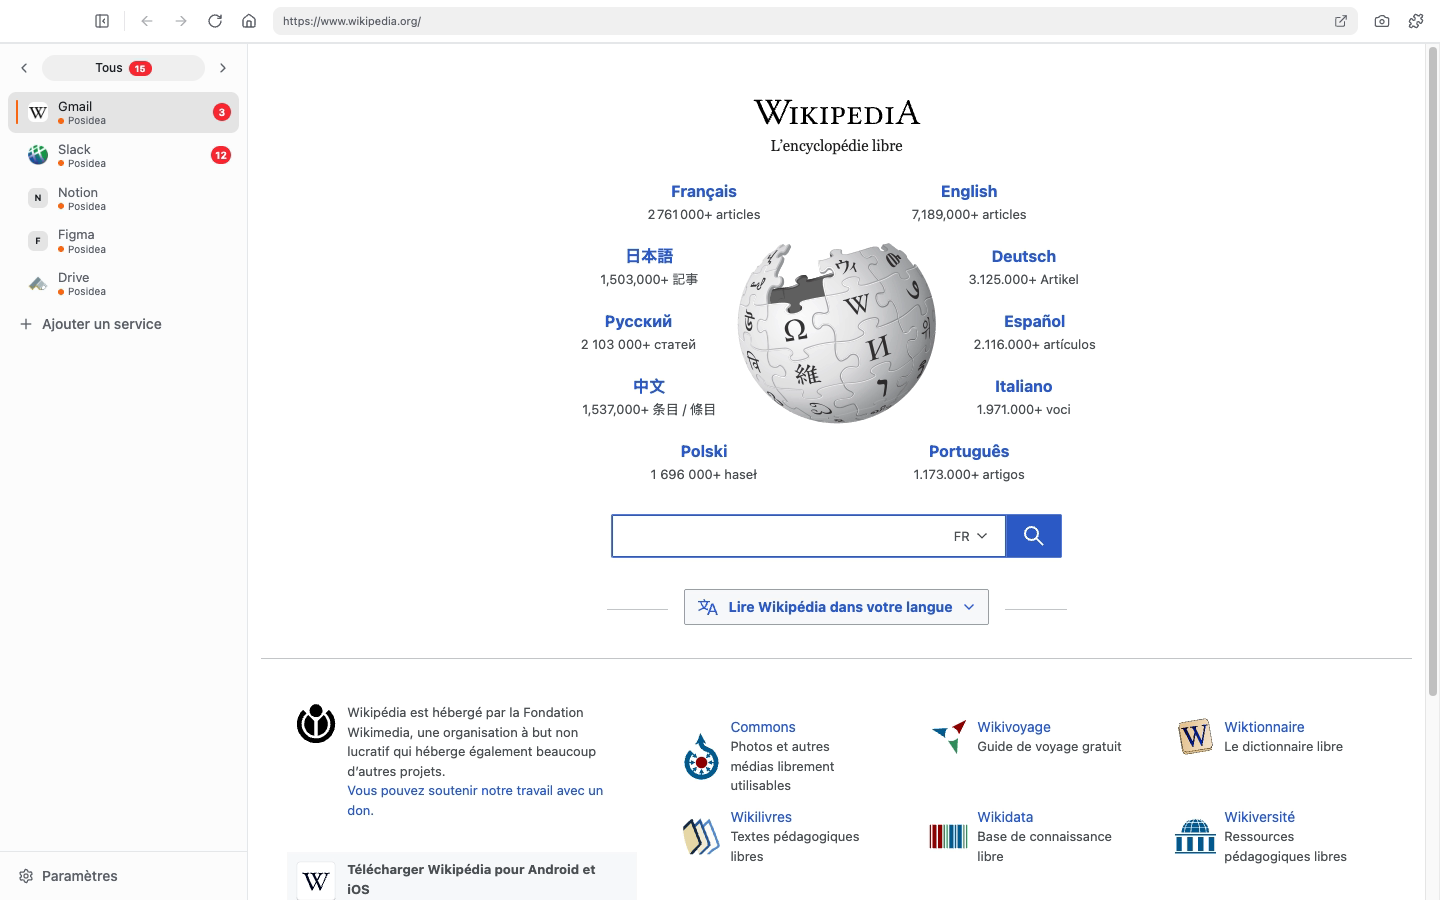
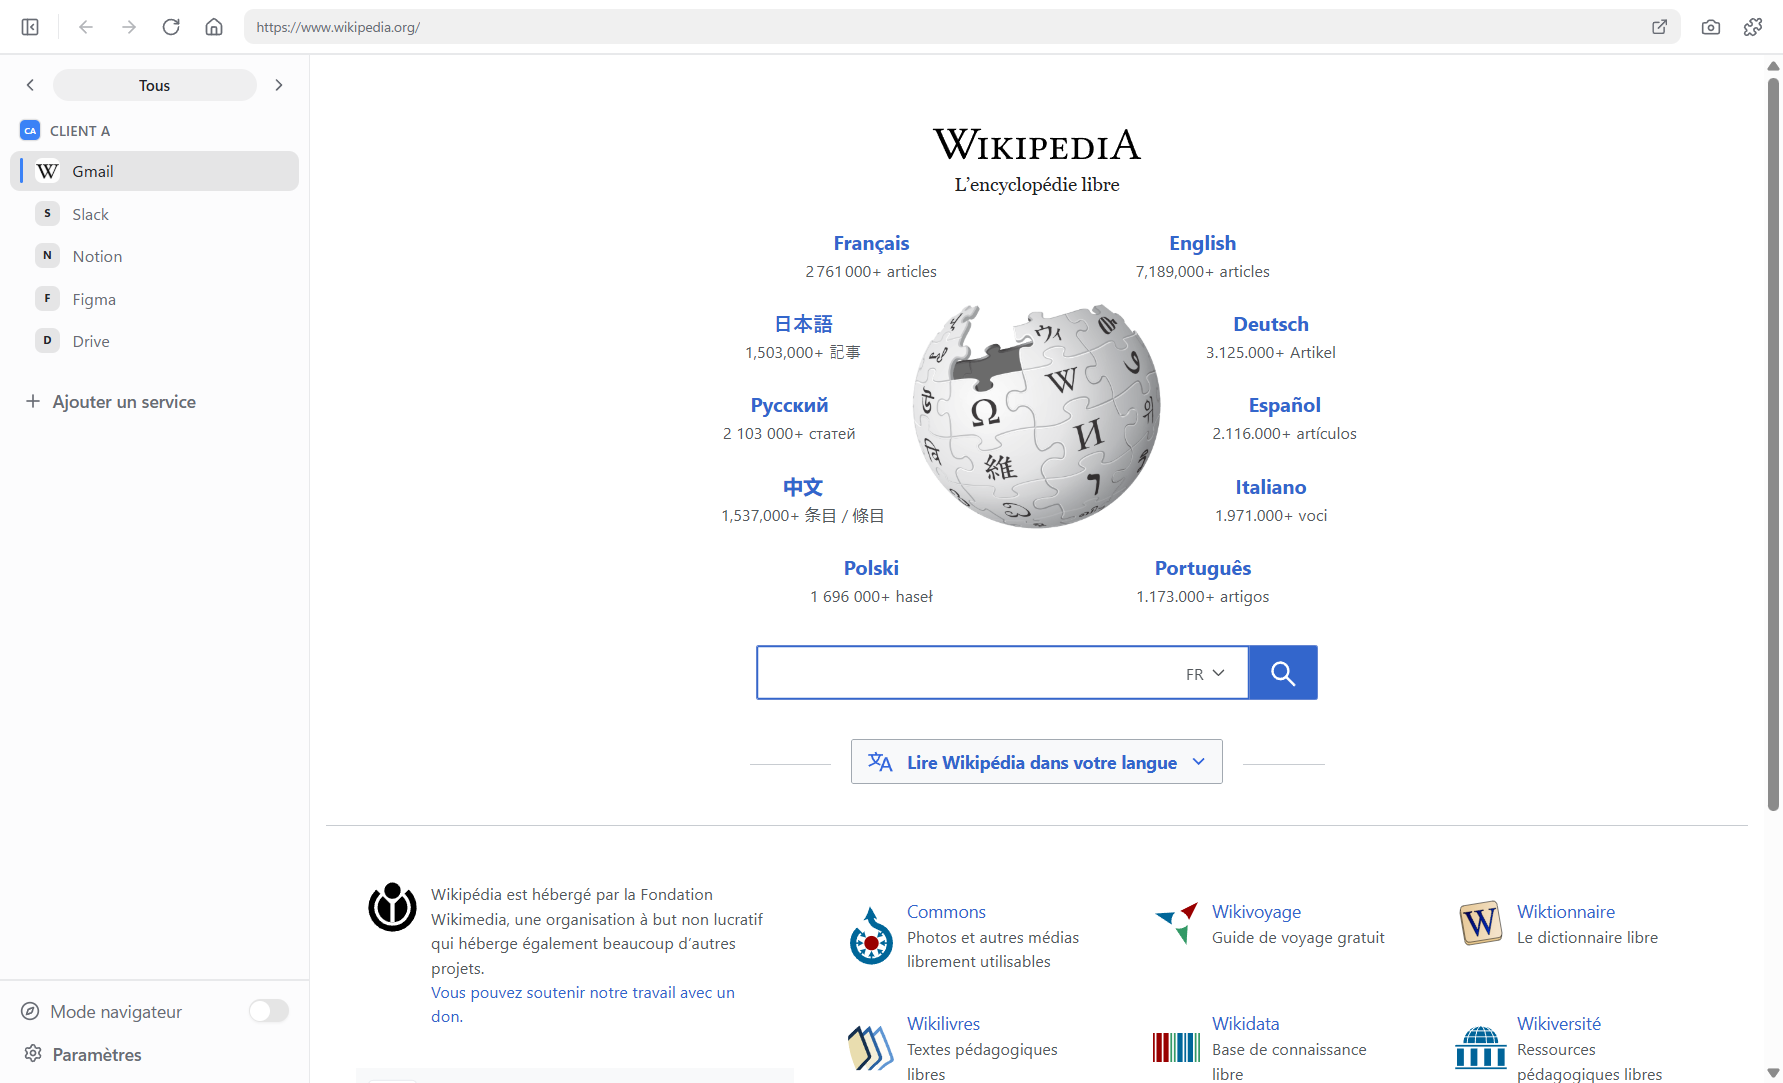
Remplace les captures du site par un compte d'exemple neutre
Les deux visuels montraient un compte nommé d'après une entreprise réelle,
répété sous chaque service. Ils sont refaits sur un profil vierge, avec un
compte « Client A » et aucune donnée personnelle.

Les dimensions déclarées suivent celles des nouvelles images, sinon Next
les étirerait au ratio de l'ancienne.

diff --git a/site/app/page.tsx b/site/app/page.tsx
@@ -104,8 +104,8 @@ function Shot() {
         <Image
           src="/app-clair.png"
           alt="La fenêtre de Hublink : à gauche le panneau des services regroupés par compte, à droite la webapp affichée."
-          width={1440}
-          height={900}
+          width={1783}
+          height={1083}
           priority
           className="w-full rounded-[13px]"
         />
@@ -247,8 +247,8 @@ function Sombre() {
           <Image
             src="/app-sombre.png"
             alt="Hublink en thème sombre, la teinte du compte actif habillant le panneau."
-            width={1440}
-            height={900}
+            width={1783}
+            height={1083}
             className="w-full rounded-[13px]"
           />
         </div>
